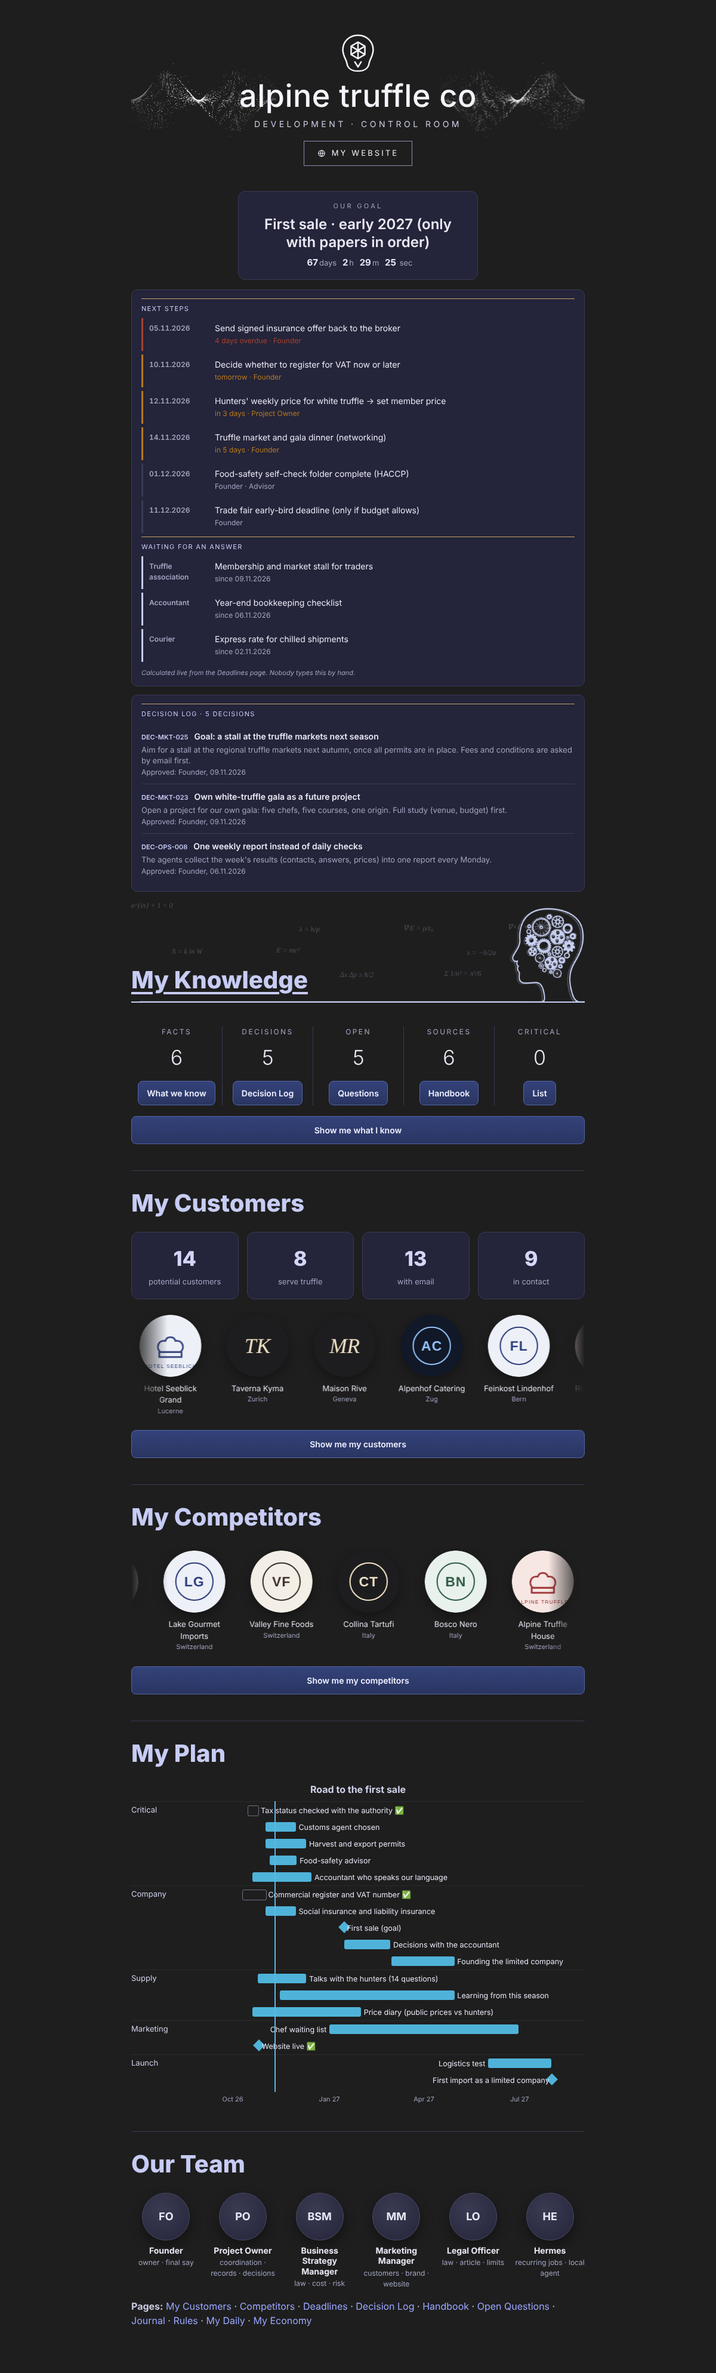
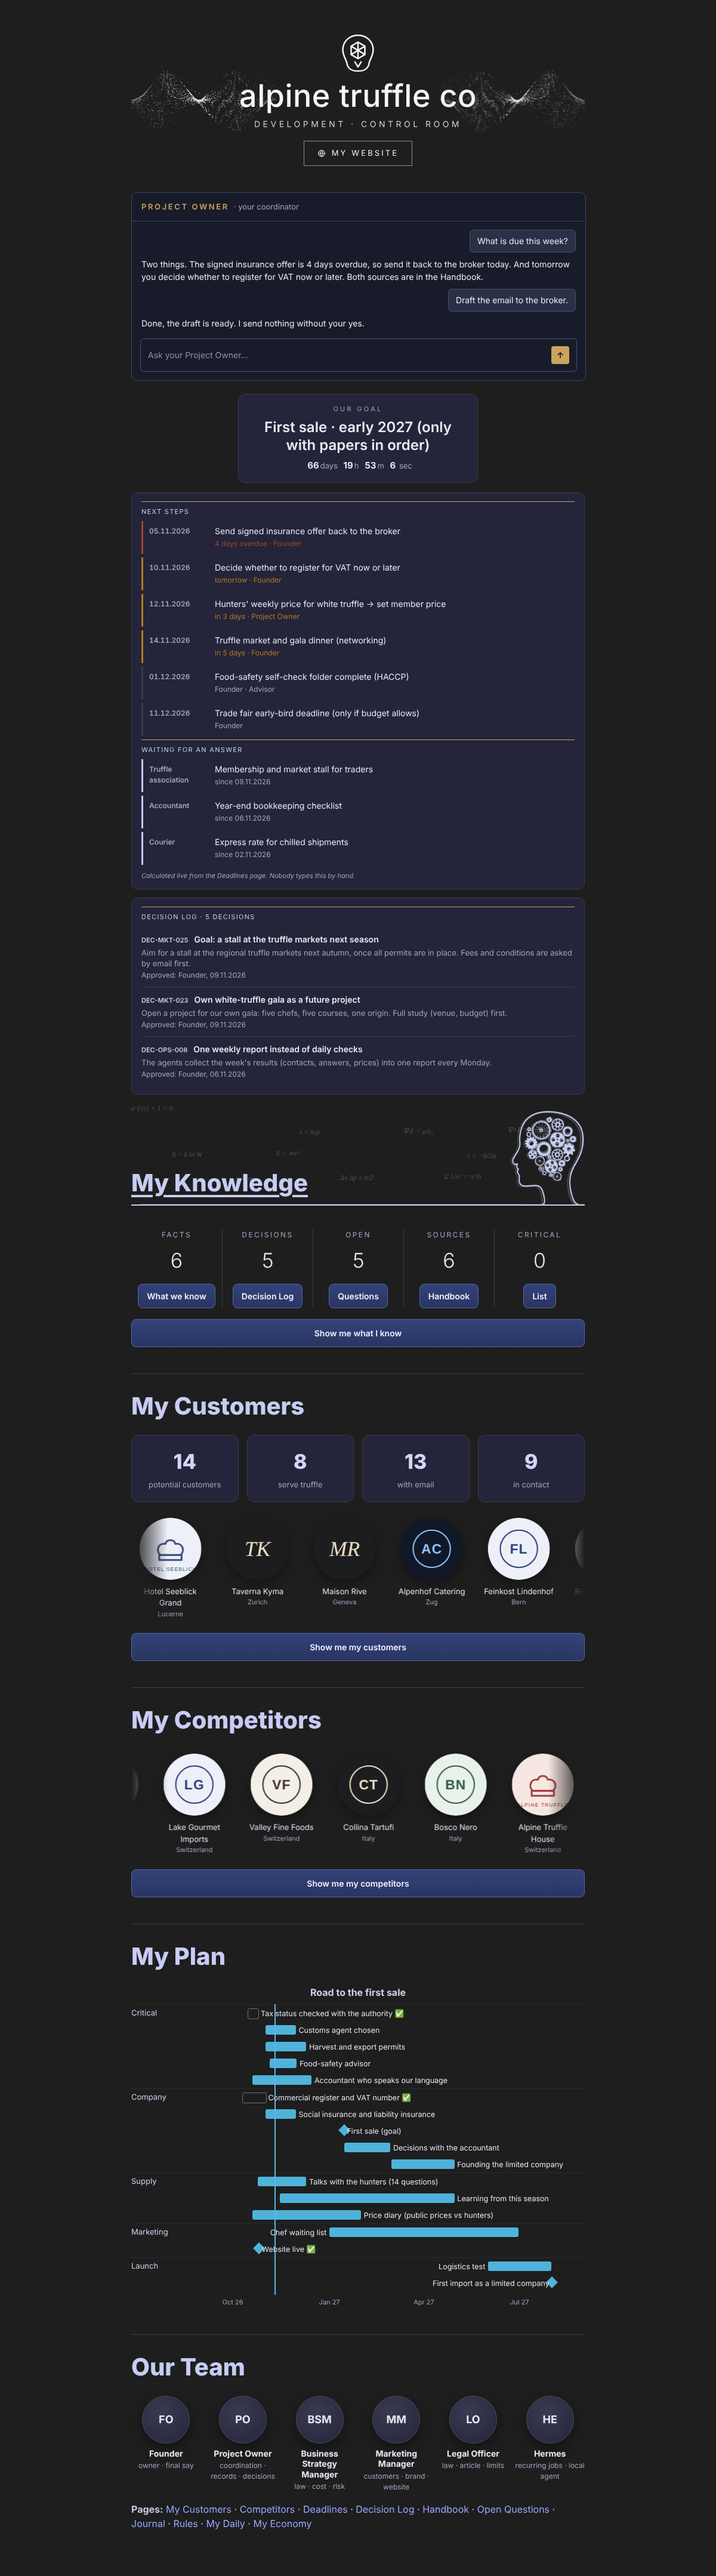
Demo Control Room: Project Owner chat panel (mo-chat block) under the header, as in the real vault; new screenshot
Claude-Session: https://claude.ai/code/session_01QZEzRnv43AeMiduqazhmQ4

diff --git a/demo-vault/.obsidian/plugins/mind-organization/main.js b/demo-vault/.obsidian/plugins/mind-organization/main.js
@@ -1002,7 +1002,28 @@
     h(wrap, 'div', 'mox-ecur', `All amounts in ${cur}. The balance is calculated, never typed by hand.`);
   }
 
-  const api = { tables, kv, logoSVG, renderHeader, renderGoal, renderKnowledge, renderCustomerStats, renderCustomers, renderCompMarquee, renderPrices, renderTimeline, renderTeam, renderDaily, renderEconomy, sectionTitle, customerCounts, competitorLines };
+  // ```mo-chat``` draws the Project Owner chat panel of the Control Room.
+  // Lines "title: …", "sub: …", "placeholder: …"; every other "Name: text" line is one message
+  // ("You:" on the right, everyone else on the left). In the demo it is a sample conversation.
+  function renderChat(el, source) {
+    const lines = String(source || '').split('\n').map((l) => l.trim()).filter(Boolean);
+    const o = {}; const msgs = [];
+    for (const l of lines) {
+      const m = l.match(/^([^:]+):\s*(.*)$/); if (!m) continue;
+      const k = m[1].trim(); const v = m[2].trim();
+      if (/^(title|sub|placeholder)$/i.test(k)) o[k.toLowerCase()] = v; else msgs.push({ who: k, text: v });
+    }
+    const pa = h(el, 'div', 'mox-panel mox-po');
+    const head = h(pa, 'div', 'mox-panel-h');
+    h(head, 'span', null, (o.title || 'Project Owner').toUpperCase());
+    if (o.sub !== '') h(head, 'span', 'mox-panel-sub', '· ' + (o.sub || 'your coordinator'));
+    const log = h(pa, 'div', 'mox-chat');
+    msgs.forEach((r) => { h(log, 'div', 'mox-msg ' + (/^(you|me)$/i.test(r.who) ? 'mox-me' : 'mox-ai'), r.text); });
+    const inp = h(pa, 'div', 'mox-input', o.placeholder || 'Ask your Project Owner…');
+    h(inp, 'span', 'mox-send', '↑');
+  }
+
+  const api = { tables, kv, logoSVG, renderHeader, renderGoal, renderKnowledge, renderCustomerStats, renderCustomers, renderCompMarquee, renderPrices, renderTimeline, renderTeam, renderDaily, renderEconomy, renderChat, sectionTitle, customerCounts, competitorLines };
   root.MindOrgShow = api;
   if (typeof module !== 'undefined' && module.exports) module.exports = api;
 })(typeof window !== 'undefined' ? window : globalThis);
@@ -1094,6 +1115,7 @@ module.exports = class MindOrganization extends Plugin {
     block('mo-prices', async (src, el, ctx) => S.renderPrices(el, S.tables(await read(first(src, ctx.sourcePath)), 'Prices')), (src, ctx) => [first(src, ctx.sourcePath)]);
     block('mo-timeline', async (src, el) => S.renderTimeline(el, S.tables(await read(first(src, 'Road map.md')))), (src) => [first(src, 'Road map.md')]);
     block('mo-team', (src, el, ctx, opts) => S.renderTeam(el, src, opts));
+    block('mo-chat', (src, el) => S.renderChat(el, src));
     block('mo-daily', async (src, el, ctx, opts) => S.renderDaily(el, await read(ctx.sourcePath), opts), (src, ctx) => [ctx.sourcePath]);
     block('mo-economy', async (src, el, ctx, opts) => S.renderEconomy(el, await read(ctx.sourcePath), opts), (src, ctx) => [ctx.sourcePath]);
   }

diff --git a/plugin/main.js b/plugin/main.js
@@ -1002,7 +1002,28 @@
     h(wrap, 'div', 'mox-ecur', `All amounts in ${cur}. The balance is calculated, never typed by hand.`);
   }
 
-  const api = { tables, kv, logoSVG, renderHeader, renderGoal, renderKnowledge, renderCustomerStats, renderCustomers, renderCompMarquee, renderPrices, renderTimeline, renderTeam, renderDaily, renderEconomy, sectionTitle, customerCounts, competitorLines };
+  // ```mo-chat``` draws the Project Owner chat panel of the Control Room.
+  // Lines "title: …", "sub: …", "placeholder: …"; every other "Name: text" line is one message
+  // ("You:" on the right, everyone else on the left). In the demo it is a sample conversation.
+  function renderChat(el, source) {
+    const lines = String(source || '').split('\n').map((l) => l.trim()).filter(Boolean);
+    const o = {}; const msgs = [];
+    for (const l of lines) {
+      const m = l.match(/^([^:]+):\s*(.*)$/); if (!m) continue;
+      const k = m[1].trim(); const v = m[2].trim();
+      if (/^(title|sub|placeholder)$/i.test(k)) o[k.toLowerCase()] = v; else msgs.push({ who: k, text: v });
+    }
+    const pa = h(el, 'div', 'mox-panel mox-po');
+    const head = h(pa, 'div', 'mox-panel-h');
+    h(head, 'span', null, (o.title || 'Project Owner').toUpperCase());
+    if (o.sub !== '') h(head, 'span', 'mox-panel-sub', '· ' + (o.sub || 'your coordinator'));
+    const log = h(pa, 'div', 'mox-chat');
+    msgs.forEach((r) => { h(log, 'div', 'mox-msg ' + (/^(you|me)$/i.test(r.who) ? 'mox-me' : 'mox-ai'), r.text); });
+    const inp = h(pa, 'div', 'mox-input', o.placeholder || 'Ask your Project Owner…');
+    h(inp, 'span', 'mox-send', '↑');
+  }
+
+  const api = { tables, kv, logoSVG, renderHeader, renderGoal, renderKnowledge, renderCustomerStats, renderCustomers, renderCompMarquee, renderPrices, renderTimeline, renderTeam, renderDaily, renderEconomy, renderChat, sectionTitle, customerCounts, competitorLines };
   root.MindOrgShow = api;
   if (typeof module !== 'undefined' && module.exports) module.exports = api;
 })(typeof window !== 'undefined' ? window : globalThis);
@@ -1094,6 +1115,7 @@ module.exports = class MindOrganization extends Plugin {
     block('mo-prices', async (src, el, ctx) => S.renderPrices(el, S.tables(await read(first(src, ctx.sourcePath)), 'Prices')), (src, ctx) => [first(src, ctx.sourcePath)]);
     block('mo-timeline', async (src, el) => S.renderTimeline(el, S.tables(await read(first(src, 'Road map.md')))), (src) => [first(src, 'Road map.md')]);
     block('mo-team', (src, el, ctx, opts) => S.renderTeam(el, src, opts));
+    block('mo-chat', (src, el) => S.renderChat(el, src));
     block('mo-daily', async (src, el, ctx, opts) => S.renderDaily(el, await read(ctx.sourcePath), opts), (src, ctx) => [ctx.sourcePath]);
     block('mo-economy', async (src, el, ctx, opts) => S.renderEconomy(el, await read(ctx.sourcePath), opts), (src, ctx) => [ctx.sourcePath]);
   }

diff --git a/plugin/showcase.js b/plugin/showcase.js
@@ -442,7 +442,28 @@
     h(wrap, 'div', 'mox-ecur', `All amounts in ${cur}. The balance is calculated, never typed by hand.`);
   }
 
-  const api = { tables, kv, logoSVG, renderHeader, renderGoal, renderKnowledge, renderCustomerStats, renderCustomers, renderCompMarquee, renderPrices, renderTimeline, renderTeam, renderDaily, renderEconomy, sectionTitle, customerCounts, competitorLines };
+  // ```mo-chat``` draws the Project Owner chat panel of the Control Room.
+  // Lines "title: …", "sub: …", "placeholder: …"; every other "Name: text" line is one message
+  // ("You:" on the right, everyone else on the left). In the demo it is a sample conversation.
+  function renderChat(el, source) {
+    const lines = String(source || '').split('\n').map((l) => l.trim()).filter(Boolean);
+    const o = {}; const msgs = [];
+    for (const l of lines) {
+      const m = l.match(/^([^:]+):\s*(.*)$/); if (!m) continue;
+      const k = m[1].trim(); const v = m[2].trim();
+      if (/^(title|sub|placeholder)$/i.test(k)) o[k.toLowerCase()] = v; else msgs.push({ who: k, text: v });
+    }
+    const pa = h(el, 'div', 'mox-panel mox-po');
+    const head = h(pa, 'div', 'mox-panel-h');
+    h(head, 'span', null, (o.title || 'Project Owner').toUpperCase());
+    if (o.sub !== '') h(head, 'span', 'mox-panel-sub', '· ' + (o.sub || 'your coordinator'));
+    const log = h(pa, 'div', 'mox-chat');
+    msgs.forEach((r) => { h(log, 'div', 'mox-msg ' + (/^(you|me)$/i.test(r.who) ? 'mox-me' : 'mox-ai'), r.text); });
+    const inp = h(pa, 'div', 'mox-input', o.placeholder || 'Ask your Project Owner…');
+    h(inp, 'span', 'mox-send', '↑');
+  }
+
+  const api = { tables, kv, logoSVG, renderHeader, renderGoal, renderKnowledge, renderCustomerStats, renderCustomers, renderCompMarquee, renderPrices, renderTimeline, renderTeam, renderDaily, renderEconomy, renderChat, sectionTitle, customerCounts, competitorLines };
   root.MindOrgShow = api;
   if (typeof module !== 'undefined' && module.exports) module.exports = api;
 })(typeof window !== 'undefined' ? window : globalThis);

diff --git a/demo-vault/.obsidian/plugins/mind-organization/styles.css b/demo-vault/.obsidian/plugins/mind-organization/styles.css
@@ -235,6 +235,8 @@ textarea.mo-setup-input { min-height: 70px; resize: vertical; font-family: inher
 .mox-dock-bg { position: absolute; inset: 0; width: 100%; height: 100%; }
 .mox-panel { position: relative; margin: 22px auto; width: min(560px, 90%); background: rgba(24,28,44,.94); border: 1px solid #3c4766; border-radius: 10px; overflow: hidden; }
 .mox-panel-h { padding: 14px 16px; border-bottom: 1px solid #3c4766; color: #c9a45c; letter-spacing: .2em; font-size: 13px; font-weight: 600; }
+.mox-panel.mox-po { width: 100%; margin: 18px 0 22px; }
+.mox-panel-sub { margin-left: 8px; color: #a3a6c2; letter-spacing: 0; font-weight: 400; }
 .mox-chat { padding: 14px 16px; display: flex; flex-direction: column; gap: 10px; max-height: 330px; overflow: auto; }
 .mox-msg { font-size: 14px; line-height: 1.45; color: #e9eaf5; } .mox-me { align-self: flex-end; background: #2a3045; border: 1px solid #45507a; padding: 8px 12px; border-radius: 6px; }
 .mox-plan { background: rgba(79,179,217,.08); border: 1px solid rgba(79,179,217,.35); border-radius: 8px; padding: 10px 12px; }

diff --git a/plugin/styles.css b/plugin/styles.css
@@ -235,6 +235,8 @@ textarea.mo-setup-input { min-height: 70px; resize: vertical; font-family: inher
 .mox-dock-bg { position: absolute; inset: 0; width: 100%; height: 100%; }
 .mox-panel { position: relative; margin: 22px auto; width: min(560px, 90%); background: rgba(24,28,44,.94); border: 1px solid #3c4766; border-radius: 10px; overflow: hidden; }
 .mox-panel-h { padding: 14px 16px; border-bottom: 1px solid #3c4766; color: #c9a45c; letter-spacing: .2em; font-size: 13px; font-weight: 600; }
+.mox-panel.mox-po { width: 100%; margin: 18px 0 22px; }
+.mox-panel-sub { margin-left: 8px; color: #a3a6c2; letter-spacing: 0; font-weight: 400; }
 .mox-chat { padding: 14px 16px; display: flex; flex-direction: column; gap: 10px; max-height: 330px; overflow: auto; }
 .mox-msg { font-size: 14px; line-height: 1.45; color: #e9eaf5; } .mox-me { align-self: flex-end; background: #2a3045; border: 1px solid #45507a; padding: 8px 12px; border-radius: 6px; }
 .mox-plan { background: rgba(79,179,217,.08); border: 1px solid rgba(79,179,217,.35); border-radius: 8px; padding: 10px 12px; }

diff --git a/preview/showcase-shots.js b/preview/showcase-shots.js
@@ -51,6 +51,7 @@ document.querySelectorAll('.blk').forEach((el) => {
   else if (t === 'mo-prices') S.renderPrices(el, S.tables(note, 'Prices'));
   else if (t === 'mo-timeline') S.renderTimeline(el, S.tables(NOTES[first(src, 'Road map.md')]), window.TODAY);
   else if (t === 'mo-team') S.renderTeam(el, src, O);
+  else if (t === 'mo-chat') S.renderChat(el, src);
   else if (t === 'mo-daily') S.renderDaily(el, note, O);
   else if (t === 'mo-economy') S.renderEconomy(el, note, O);
 });`;
@@ -87,7 +88,7 @@ const shots = [
     await p.goto('file://' + tmp);
     await p.waitForTimeout(1800);
     const hgt = await p.evaluate(() => document.querySelector('.note').getBoundingClientRect().height);
-    await p.setViewportSize({ width: 1200, height: Math.min(4200, Math.ceil(hgt)) });
+    await p.setViewportSize({ width: 1200, height: Math.min(5000, Math.ceil(hgt)) });
     await p.waitForTimeout(600);
     await p.screenshot({ path: path.join(OUT, s.out) });
     fs.unlinkSync(tmp);

diff --git a/plugin/plugin.js b/plugin/plugin.js
@@ -85,6 +85,7 @@ module.exports = class MindOrganization extends Plugin {
     block('mo-prices', async (src, el, ctx) => S.renderPrices(el, S.tables(await read(first(src, ctx.sourcePath)), 'Prices')), (src, ctx) => [first(src, ctx.sourcePath)]);
     block('mo-timeline', async (src, el) => S.renderTimeline(el, S.tables(await read(first(src, 'Road map.md')))), (src) => [first(src, 'Road map.md')]);
     block('mo-team', (src, el, ctx, opts) => S.renderTeam(el, src, opts));
+    block('mo-chat', (src, el) => S.renderChat(el, src));
     block('mo-daily', async (src, el, ctx, opts) => S.renderDaily(el, await read(ctx.sourcePath), opts), (src, ctx) => [ctx.sourcePath]);
     block('mo-economy', async (src, el, ctx, opts) => S.renderEconomy(el, await read(ctx.sourcePath), opts), (src, ctx) => [ctx.sourcePath]);
   }

diff --git a/README.md b/README.md
@@ -211,7 +211,7 @@ You can run the questions again at any time: command palette → **Mind Organiza
 The demo vault is not an empty template. It has the same design as my own vault, filled with invented companies, prices and numbers, so you see how it works before you put in your own:
 
 - **Start page:** the brain in the middle, drawn live in WebGL, and six circles that open Hermes, Projects, My Development, My Economy, My Daily and Design.
-- **Control Room:** a header with particle waves, the goal with a live countdown, next steps, the Decision Log, My Knowledge with its counters, customers and competitors whose logos scroll past, the road map and the team.
+- **Control Room:** a header with particle waves, the Project Owner chat (a sample conversation in the demo), the goal with a live countdown, next steps, the Decision Log, My Knowledge with its counters, customers and competitors whose logos scroll past, the road map and the team.
 - **My Customers:** lists, counters, filters and one card per customer, all drawn from one table.
 - **My Competitors:** logos by country, a price chart and a price table.
 - **My Daily** with the Personal Assistant, and **My Economy** with the Finance Manager.

diff --git a/demo-vault/Control Room.md b/demo-vault/Control Room.md
@@ -6,6 +6,16 @@ button: My Website
 link: https://example.com
 ```
 
+```mo-chat
+title: Project Owner
+sub: your coordinator
+You: What is due this week?
+Project Owner: Two things. The signed insurance offer is 4 days overdue, so send it back to the broker today. And tomorrow you decide whether to register for VAT now or later. Both sources are in the Handbook.
+You: Draft the email to the broker.
+Project Owner: Done, the draft is ready. I send nothing without your yes.
+placeholder: Ask your Project Owner…
+```
+
 ```mo-goal
 label: Our goal
 text: First sale · early 2027 (only with papers in order)
